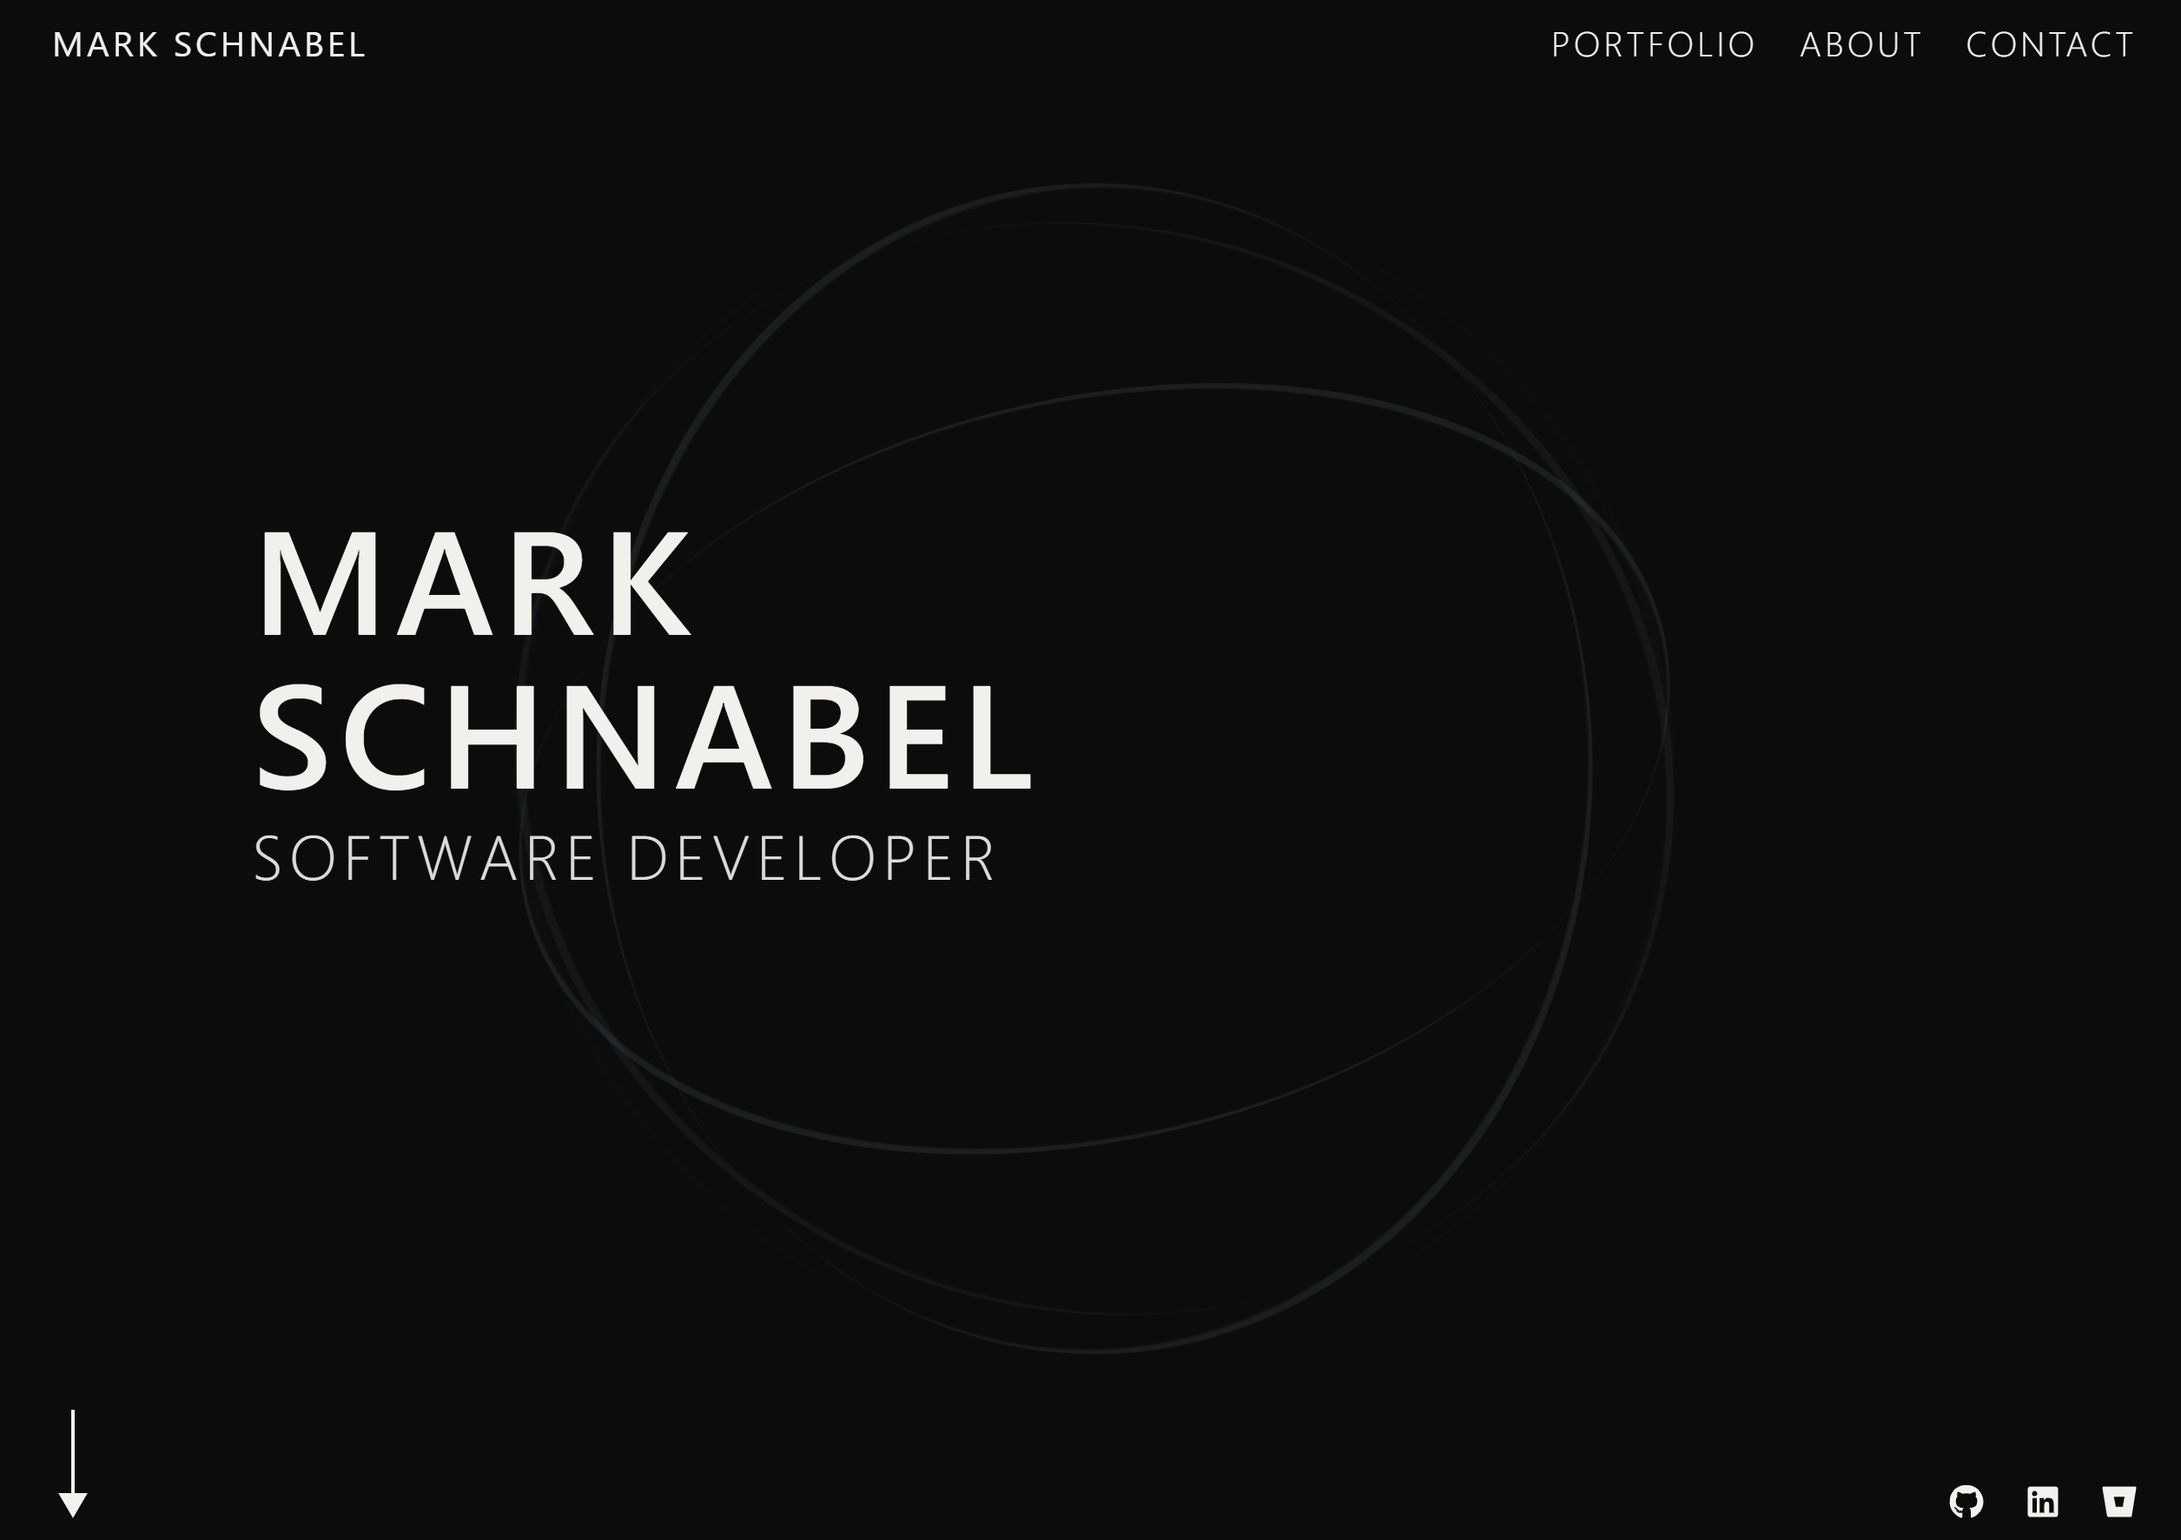
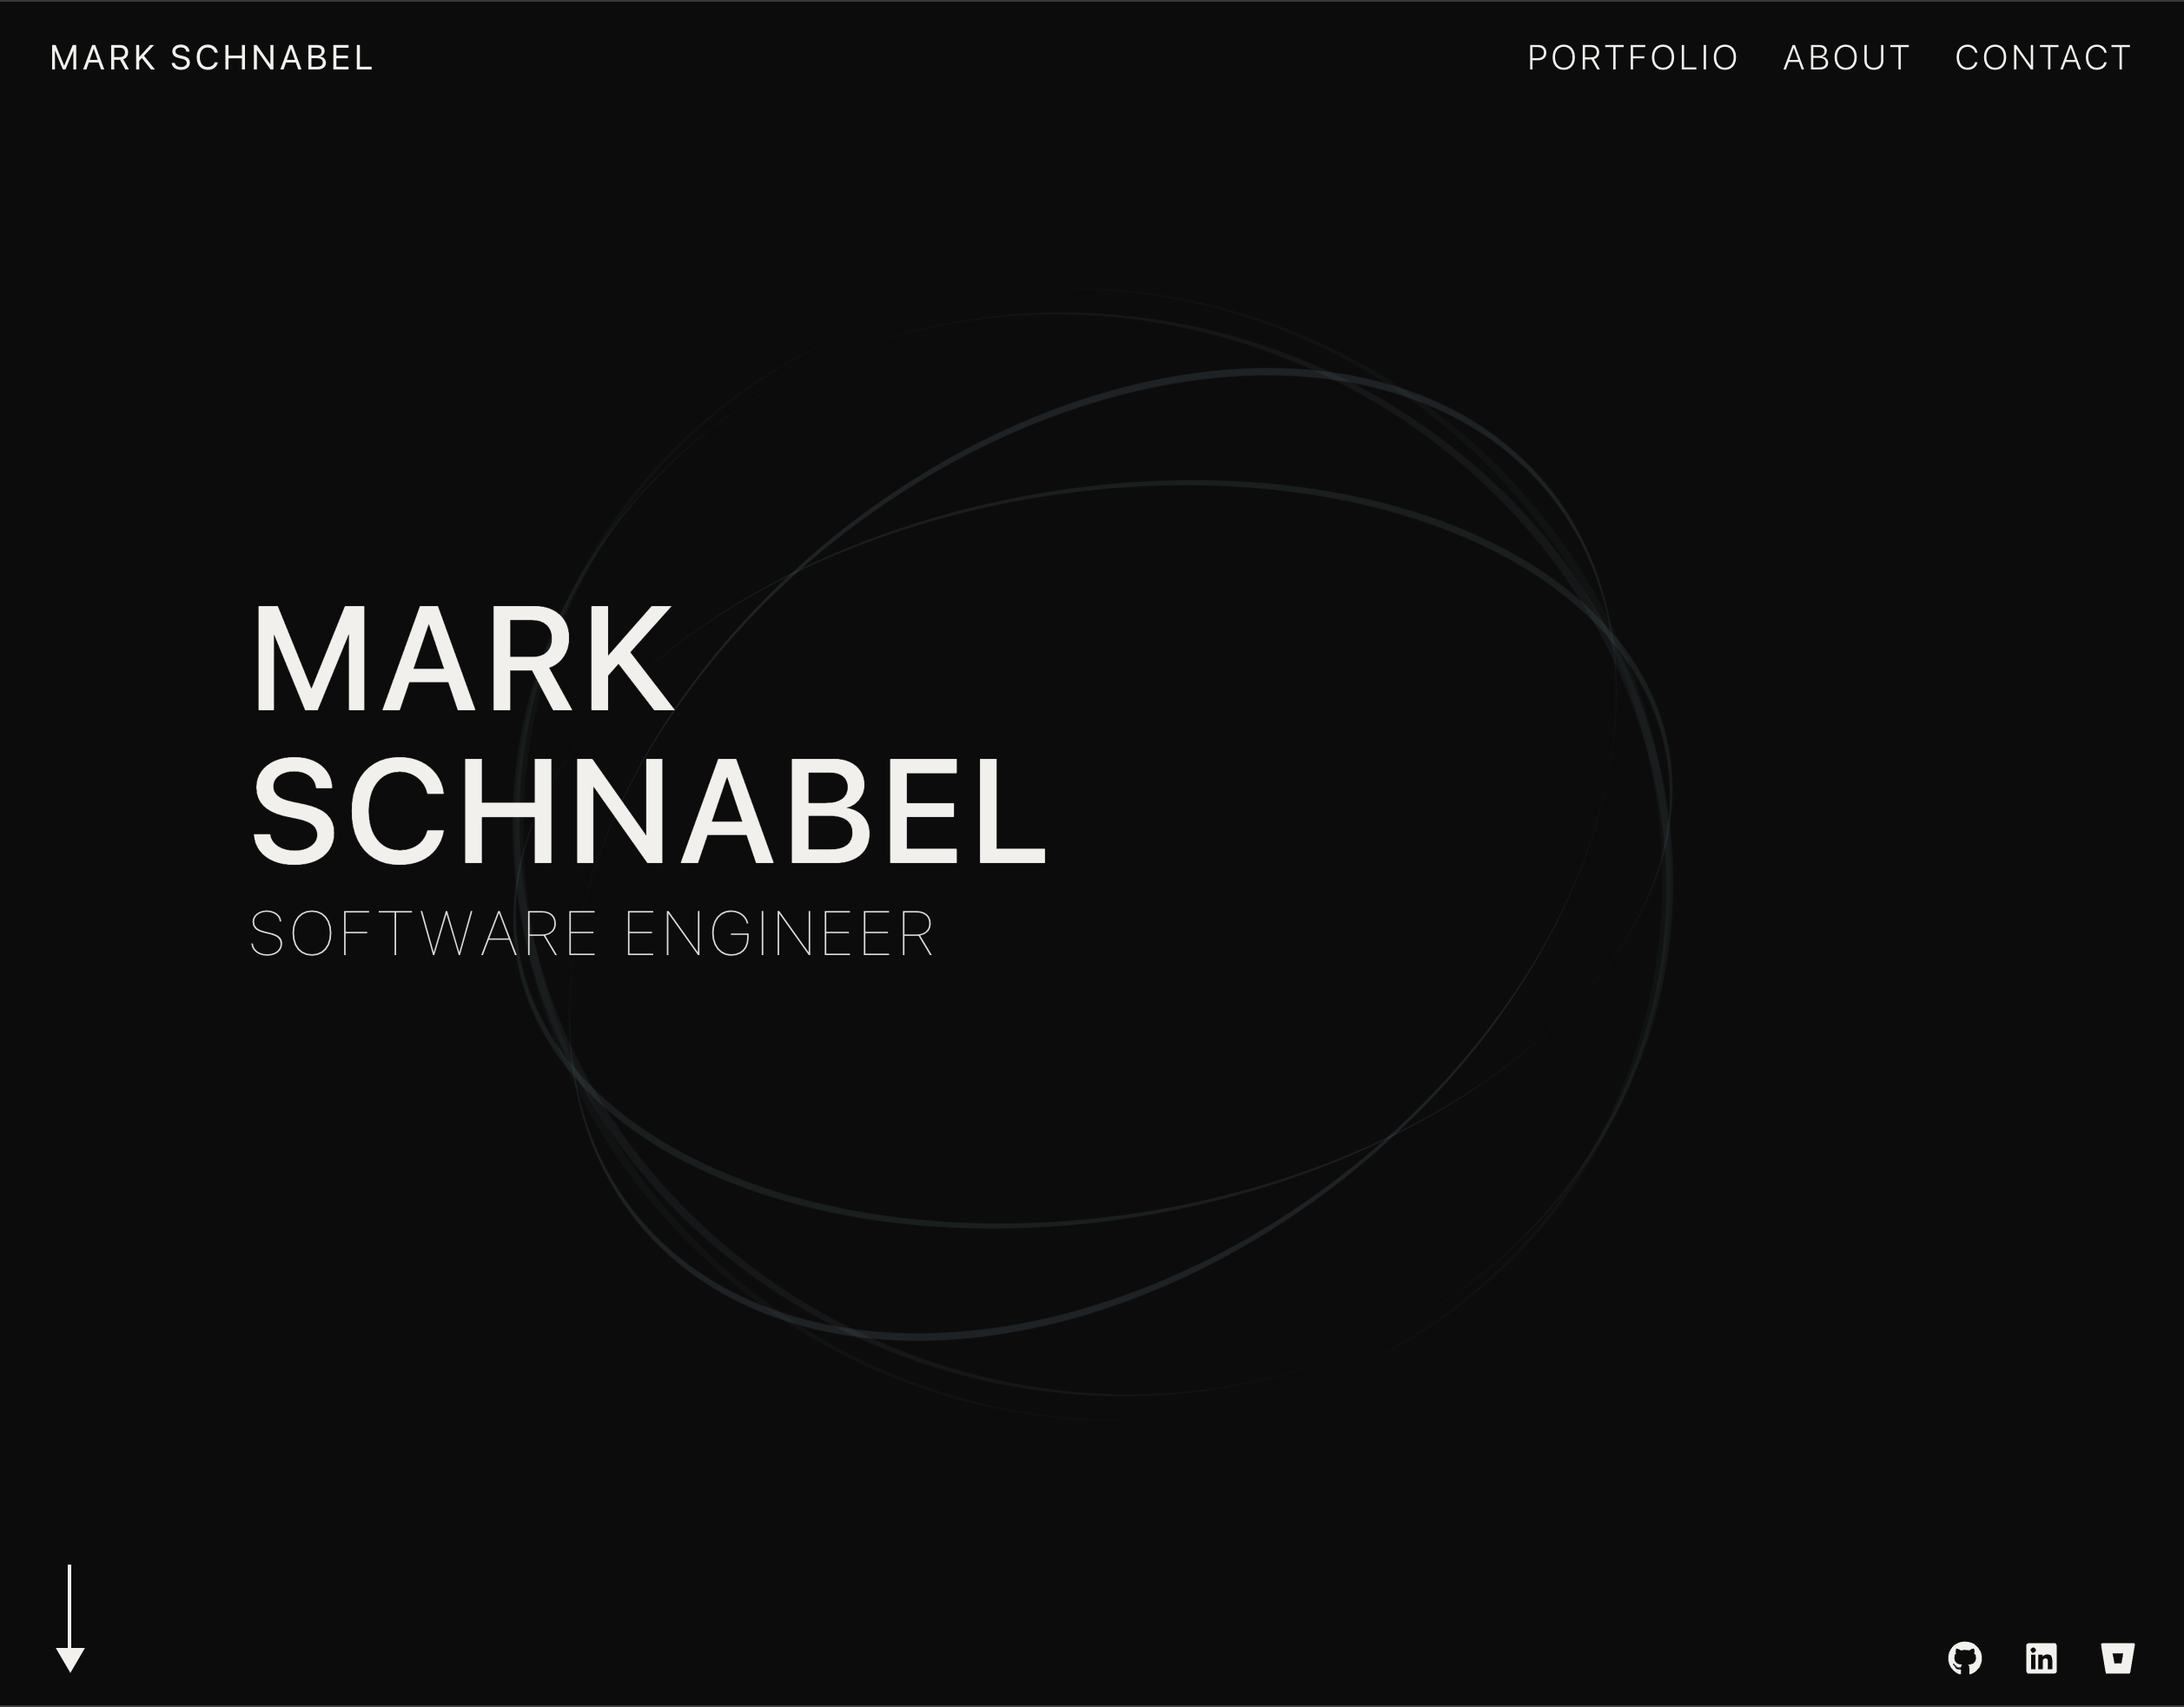
I'm a real engineer

diff --git a/src/components/landing/Header.js b/src/components/landing/Header.js
@@ -61,7 +61,7 @@ const Header = () => {
         </LandingHeader>
         <LandingSubHeader>
           <Fade bottom cascade delay={950} distance="100px">
-            Software Developer
+            Software Engineer
           </Fade>
         </LandingSubHeader>
       </Wrapper>
